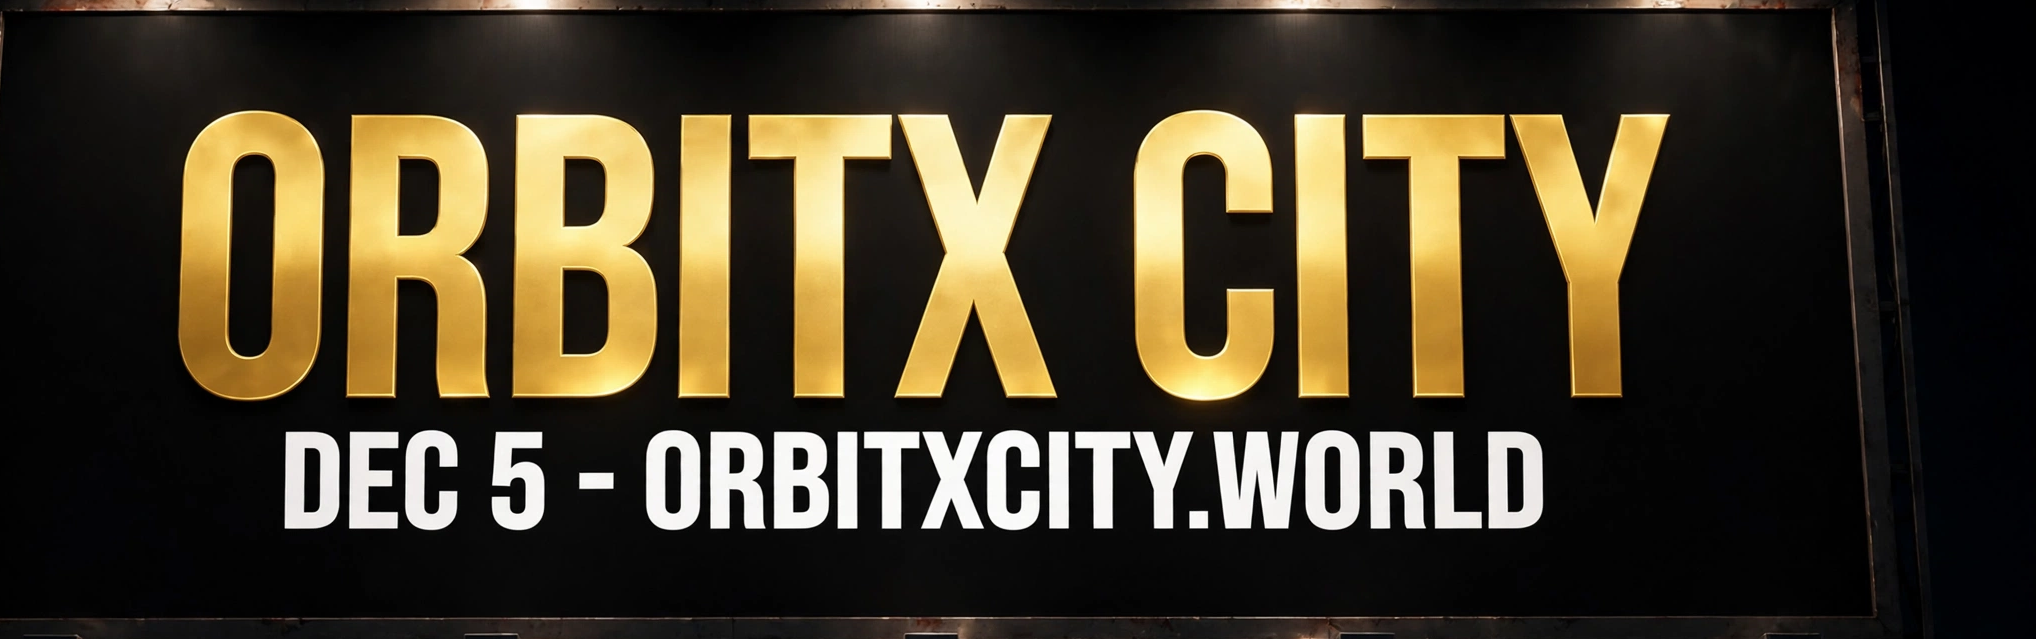
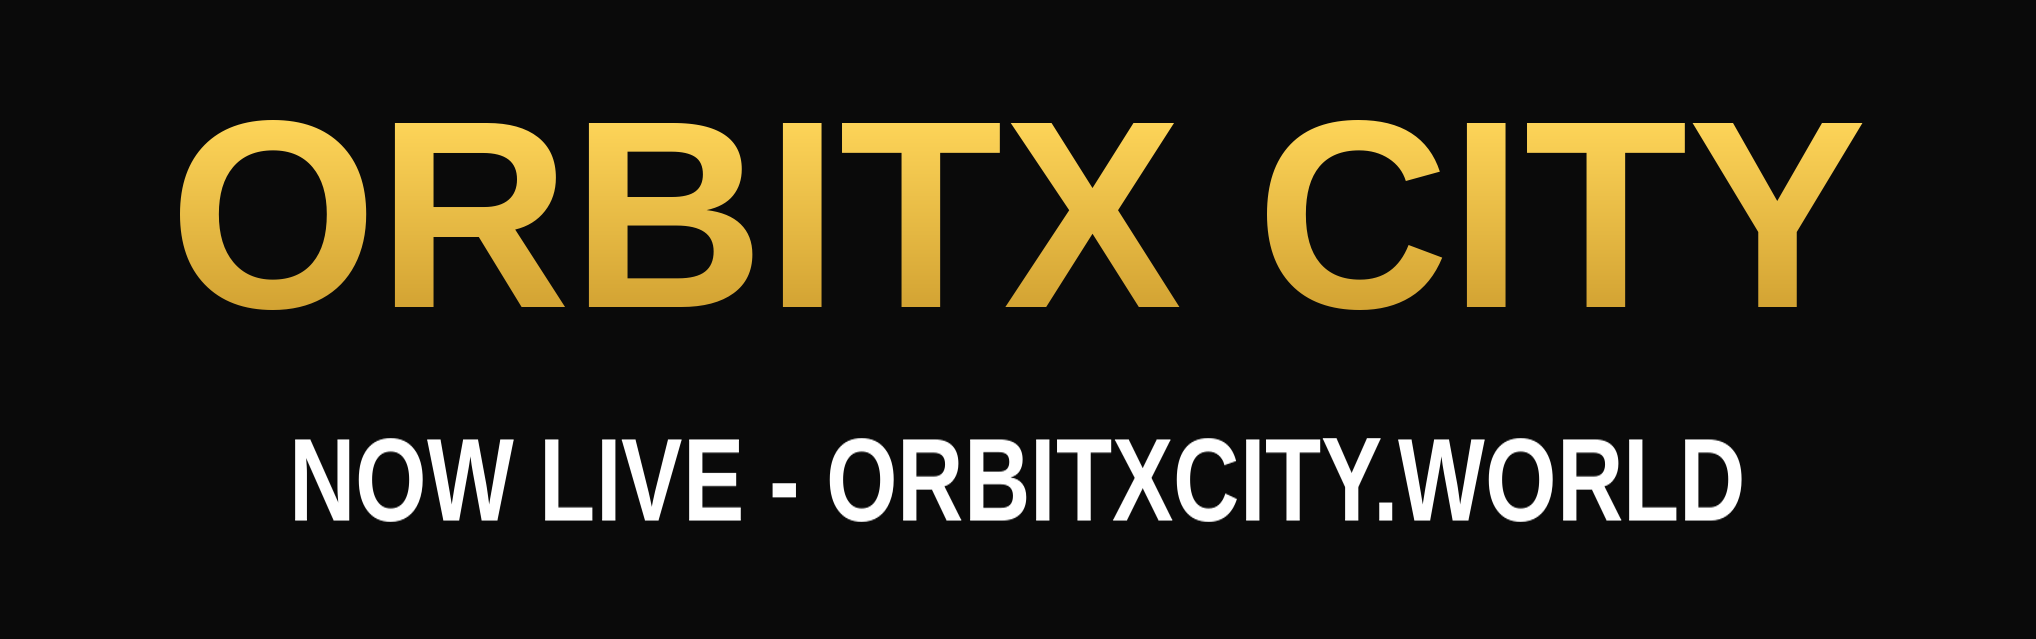
Launch day: WE ARE LIVE — menu kicker, intro card, home pages, NPC bark, house billboard creative (SW v55)

diff --git a/web/src/HomePages.tsx b/web/src/HomePages.tsx
@@ -72,7 +72,7 @@ export function MenuFooter({ onNavigate }: { onNavigate: (page: HomePage) => voi
           GitHub
         </a>
       </div>
-      <p className="menu-footer-line">Launches Dec 5, 2026 · Free forever</p>
+      <p className="menu-footer-line">Live now · Free forever</p>
       <p className="menu-footer-line">City Sol is in-game only — no real money. · orbitx.world</p>
     </footer>
   );
@@ -115,8 +115,8 @@ export function AboutPage() {
       </p>
       <h3>Launch</h3>
       <p>
-        OrbitX City launches <b>Saturday, Dec 5, 2026</b>. Until then the city is in open playtesting — what you see
-        is what is live, and your feedback shapes what gets built next.
+        OrbitX City is <b>LIVE</b> — launched <b>Saturday, Nov 21, 2026</b>. The city is open to everyone — what you
+        see is what is live, and your feedback shapes what gets built next.
       </p>
       <p>
         Built by audifyx, Los Angeles, CA. Questions: <a href={`mailto:${CONTACT_EMAIL}`}>{CONTACT_EMAIL}</a> ·{" "}
@@ -191,7 +191,7 @@ export function SettingsPage({
 export function PrivacyPage() {
   return (
     <PageShell title="Privacy Policy">
-      <p>Last updated: Dec 5, 2026 launch. Plain version — no legalese.</p>
+      <p>Last updated: Nov 21, 2026 launch. Plain version — no legalese.</p>
       <h3>Who runs this</h3>
       <p>
         OrbitX City is built by audifyx, Los Angeles, CA. Contact:{" "}
@@ -225,7 +225,7 @@ export function PrivacyPage() {
 export function TermsPage() {
   return (
     <PageShell title="Terms of Service">
-      <p>Last updated: Dec 5, 2026 launch. Plain version — no legalese.</p>
+      <p>Last updated: Nov 21, 2026 launch. Plain version — no legalese.</p>
       <h3>The game is free</h3>
       <p>
         OrbitX City is free forever. There are no fees to play, and nothing in the game is pay-to-win. City Sol is
@@ -248,8 +248,8 @@ export function TermsPage() {
       </p>
       <h3>The service</h3>
       <p>
-        The city is in active development toward its Dec 5, 2026 launch. Features may change, saves may be adjusted
-        during playtesting, and the service may go down for maintenance. We are not liable for lost in-game progress
+        The city launched on Nov 21, 2026 and is in active development. Features may change, saves may be adjusted,
+        and the service may go down for maintenance. We are not liable for lost in-game progress
         beyond restoring what we reasonably can.
       </p>
       <h3>Contact</h3>

diff --git a/web/src/MenuHome.tsx b/web/src/MenuHome.tsx
@@ -69,7 +69,7 @@ export function MenuHome({ gate, who, onChoose, onAccount, onGuest, onBackToLogi
         onPlay={onChoose}
       />
       <div className="menu-hero">
-        <p className="menu-kicker">ORBITX · LAUNCHES DEC 5, 2026</p>
+        <p className="menu-kicker">ORBITX · WE ARE LIVE</p>
         <h1 className="menu-title"><img src="/logo/logo-lockup.svg" alt="ORBITX CITY" className="menu-logo" /></h1>
         <p className="menu-sub">A voxel city you can own. {CITY_FACTS.characters} characters. Twenty jobs. One economy — City Sol.</p>
         {gate === "login" ? (

diff --git a/web/src/game/npcvoice.ts b/web/src/game/npcvoice.ts
@@ -88,7 +88,7 @@ const BARKS: Array<[RegExp, string[]]> = [
 const GENERIC_BARKS = [
   "Beautiful day in OrbitX City.",
   "Hey — good to see you out.",
-  "Dec 5th can't come soon enough.",
+  "The city is LIVE — can you feel it?",
   "This city's really coming alive.",
   "Watch the traffic — drivers here are wild.",
   "Fountain at sunset. Trust me.",

diff --git a/web/public/sw.js b/web/public/sw.js
@@ -4,7 +4,7 @@
 // v21 (2026-11-18): MEGA PUSH — building-entry doors, vehicle fixes, bus+train
 // operator jobs, Home Workshop 2D editor, 25 ORBITX billboards, Arcade PvP
 // pot games (Coin Flip + Dice Roll).
-const CACHE = "orbitx-city-v54";
+const CACHE = "orbitx-city-v55";
 const PRECACHE = [
   "/",
   "/index.html",

diff --git a/web/src/Intro.tsx b/web/src/Intro.tsx
@@ -88,7 +88,7 @@ const BEATS: IntroBeat[] = [
     chapter: "05 LAUNCH",
     kicker: "WORLD PREMIERE",
     cam: "CAM 05 // ORBITX METROPOLIS SKYLINE",
-    title: "LAUNCHES DEC 5, 2026",
+    title: "WE ARE LIVE",
     sub: "Free forever. No fees. No pay-to-win.",
     pills: [
       "60,000 Starter Sol",
